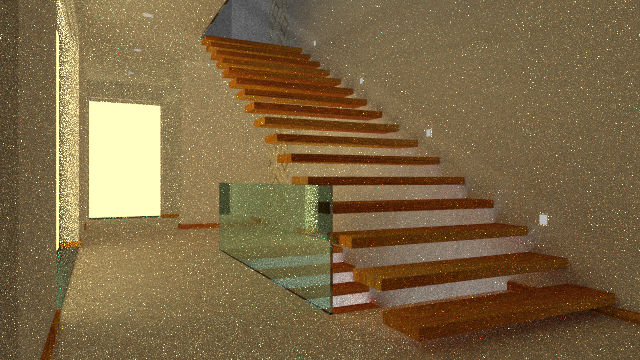
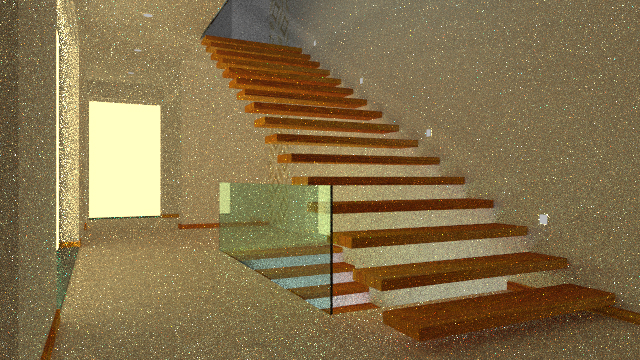
Fresenl reflection

Changed region(s): [[0.0, 0.0, 1.0, 1.0]]

diff --git a/material.h b/material.h
@@ -66,7 +66,7 @@ public:
 
         if (dot(wo, normal) < 0 || dot(wi, normal) < 0) return vec3(0);
         vec3 reflectDirection = normalize(2 * dot(wi, normal) * normal - wi);
-        vec3 result = /*diffuse * */sampleTexture(uv.x, uv.y) * (1.0f / PI) + specular * (shiness + 2) * pow(max(dot(reflectDirection, wo), 0.0f), shiness) / (2.0f * PI);
+        vec3 result = diffuse * sampleTexture(uv.x, uv.y) * (1.0f / PI) + specular * (shiness + 2) * pow(max(dot(reflectDirection, wo), 0.0f), shiness) / (2.0f * PI);
 
         return result;
 
@@ -117,34 +117,53 @@ public:
 
     }
 
-    bool refrectionRay(vec3 wo, IntersectionPoint IP, Ray& r) {
+    bool isTransparent() { return IOR > 1.0f; }
 
-        int rgb = rand() % 3;
-        float p = rand() * 1.0f / RAND_MAX;
-
-        //if (p <= transmittance[rgb]) return false;
-
-        if (transmittance.x >= 1.0f && transmittance.y >= 1.0f && transmittance.z >= 1.0f) return false;
+    float refrectionRay(vec3 wo, IntersectionPoint IP, Ray& r) {
 
         float ior = IOR;
         if (dot(wo, IP.n) < 0) ior = 1.0f / IOR, IP.n *= -1.0f;
         float coso = fabs(dot(wo, IP.n));
-        if (1.0f - (1.0f - coso * coso) < 0) return false;
+        if (1.0f - (1.0f - coso * coso) < 0) return 1.0f;
         float cosi = sqrt(1.0f - (1.0f - coso * coso) / (ior * ior));
-
-        vec3 wi = normalize(- IP.n * cosi + (IP.n * coso - wo) / ior);
+        vec3 wi = normalize(-IP.n * cosi + (IP.n * coso - wo) / ior);
         r = Ray(IP.p, wi);
 
-        return true;
+        float RV = (ior * coso - cosi) / (ior * coso + cosi);
+        float RH = (coso - ior * cosi) / (coso + ior * cosi);
+
+        return 0.5f * (RV * RV + RH * RH);
 
     }
+
+    //bool refrectionRay(vec3 wo, IntersectionPoint IP, Ray& r) {
+
+    //    int rgb = rand() % 3;
+    //    float p = rand() * 1.0f / RAND_MAX;
+
+    //    //if (p <= transmittance[rgb]) return false;
+
+    //    if (transmittance.x >= 1.0f && transmittance.y >= 1.0f && transmittance.z >= 1.0f) return false;
+
+    //    float ior = IOR;
+    //    if (dot(wo, IP.n) < 0) ior = 1.0f / IOR, IP.n *= -1.0f;
+    //    float coso = fabs(dot(wo, IP.n));
+    //    if (1.0f - (1.0f - coso * coso) < 0) return false;
+    //    float cosi = sqrt(1.0f - (1.0f - coso * coso) / (ior * ior));
+
+    //    vec3 wi = normalize(- IP.n * cosi + (IP.n * coso - wo) / ior);
+    //    r = Ray(IP.p, wi);
+
+    //    return true;
+
+    //}
 
     vec3 Trans() { return transmittance; }
     const char* Name() { return name.c_str(); }
 
     vec3 sampleTexture(float x, float y) {
 
-        if (texturePath.empty()) return diffuse;
+        if (texturePath.empty()) return vec3(1.0f);
         if (texture == NULL) {
 
             texture = new Texture();
@@ -161,8 +180,16 @@ public:
         if (j >= texture->height) j %= texture->height;
       
         int index = (i + (texture->height - j - 1) * texture->width) * texture->channel;
-        //int index = (i + j * texture->width) * texture->channel;
         vec3 color = vec3(texture->image[index] * 1.0f / 255.0f, texture->image[index + 1] * 1.0f / 255.0f, texture->image[index + 2] * 1.0f / 255.0f);
+        //printf("%d %.2lf\n", texture->image[index], color.x);
+
+        //if (name == "Wood"/* && i == 312 && j == 883*/) {
+
+        //    printf("i:%d j:%d\n", i, j);
+        //    printf("%d %d %d\n", texture->image[index], texture->image[index + 1], texture->image[index + 2]);
+        //    printf("%.2lf %.2lf %.2lf\n\n", color.x, color.y, color.z);
+
+        //}
 
         return vec3(texture->image[index] * 1.0f / 255.0f, texture->image[index + 1] * 1.0f / 255.0f, texture->image[index + 2] * 1.0f / 255.0f);
 

diff --git a/main.cpp b/main.cpp
@@ -30,11 +30,11 @@ Light* lights;
 int lightNum;
 
 const float RRThreshold = 0.8f;
-int SPP = 100;
+int SPP = 1;
 std::vector<PathPoint> paths;
 float* result;
 float maxResult = 0.0f;
-const float gamma = 2.2f;
+const float gamma = 2.0f;
 char* image;
 bool intersectionCheck(Ray r, float& t, IntersectionPoint& IP);
 bool lightIntersectionCheck(Ray r, float& t, IntersectionPoint& IP);
@@ -68,7 +68,7 @@ int main() {
 
 				Ray r = cam->pixelRay(i, j);
 
-				if (i == 512 && j == cam->Height() - 512) {
+				if (i == 224 && j == cam->Height() - 197) {
 
 					bool xx = true;
 
@@ -202,43 +202,44 @@ vec3 pathTracing(IntersectionPoint IP, vec3 wo) {
 	IntersectionPoint lightIP;
 	Ray nextRay;
 
-	if (IP.mat->refrectionRay(wo, IP, nextRay)) {
+	if (IP.mat->isTransparent()) {
 
 		float p = rand() * 1.0f / RAND_MAX;
+		float refrectP = IP.mat->refrectionRay(wo, IP, nextRay);
 
-		if (p < 0.5f) {
+		if (p < refrectP) {
 
 			vec3 reflectDirection = normalize(2 * dot(wo, IP.n) * IP.n - wo);
 			nextRay = Ray(IP.p, reflectDirection);
 
-			if (intersectionCheck(nextRay, tmpT, tmpIP)) 
+			if (lightIntersectionCheck(nextRay, lightT, lightIP)) {
 
-				if (lightIntersectionCheck(nextRay, lightT, lightIP) && fabs(lightT - tmpT) < 1e-3) reflectionLight = IP.mat->Trans() * lightIP.mat->GetLightRadiance();
+				if (!intersectionCheck(nextRay, tmpT, tmpIP) || lightT - tmpT < 1e-3) reflectionLight = IP.mat->Trans() * lightIP.mat->GetLightRadiance();
 				else reflectionLight = IP.mat->Trans() * pathTracing(tmpIP, nextRay.direction() * -1.0f);
 
-		}
+			}
 
-		else if (intersectionCheck(nextRay, tmpT, tmpIP)) {
-
-			if (lightIntersectionCheck(nextRay, lightT, lightIP) && fabs(lightT - tmpT) < 1e-3) refrectionLight = IP.mat->Trans() * lightIP.mat->GetLightRadiance();
-			else refrectionLight = IP.mat->Trans() * pathTracing(tmpIP, nextRay.direction() * -1.0f);
+			else if (intersectionCheck(nextRay, tmpT, tmpIP)) reflectionLight = IP.mat->Trans() * pathTracing(tmpIP, nextRay.direction() * -1.0f);
 
 		}
 
-		/*vec3 reflectDirection = normalize(2 * dot(wo, IP.n) * IP.n - wo);
-		nextRay = Ray(IP.p, reflectDirection);
+		else {
 
-		if (intersectionCheck(nextRay, tmpT, tmpIP)) {
+			if (lightIntersectionCheck(nextRay, lightT, lightIP)) {
 
-			reflectionLight = (vec3(1.0f) - IP.mat->Trans()) * pathTracing(tmpIP, nextRay.direction() * -1.0f);
+				if (!intersectionCheck(nextRay, tmpT, tmpIP) || lightT - tmpT < 1e-3) refrectionLight = IP.mat->Trans() * lightIP.mat->GetLightRadiance();
+				else refrectionLight = IP.mat->Trans() * pathTracing(tmpIP, nextRay.direction() * -1.0f);
 
-		}*/
+			}
+
+			else if (intersectionCheck(nextRay, tmpT, tmpIP)) refrectionLight = IP.mat->Trans() * pathTracing(tmpIP, nextRay.direction() * -1.0f);
+
+		}
 
 	}
 
 	else {
 
-		float directLightNum = 0.0f;
 		for (int i = 0; i < lightNum; i++) {
 
 			Ray lightRay;
@@ -256,7 +257,6 @@ vec3 pathTracing(IntersectionPoint IP, vec3 wo) {
 
 			if (hitLight) {
 
-				directLightNum += 1.0f;
 				vec3 wi = lightRay.direction();
 				brdf = IP.mat->phongModelBRDF(wi, wo, IP.n, IP.uv);
 				cos = max(dot(IP.n, wi), 0.0f);
@@ -265,8 +265,6 @@ vec3 pathTracing(IntersectionPoint IP, vec3 wo) {
 			}
 
 		}
-
-		if (directLightNum != 0.0f) directLight /= directLightNum;
 
 		float RR = rand() * 1.0f / RAND_MAX;
 		if (RR < RRThreshold) {
